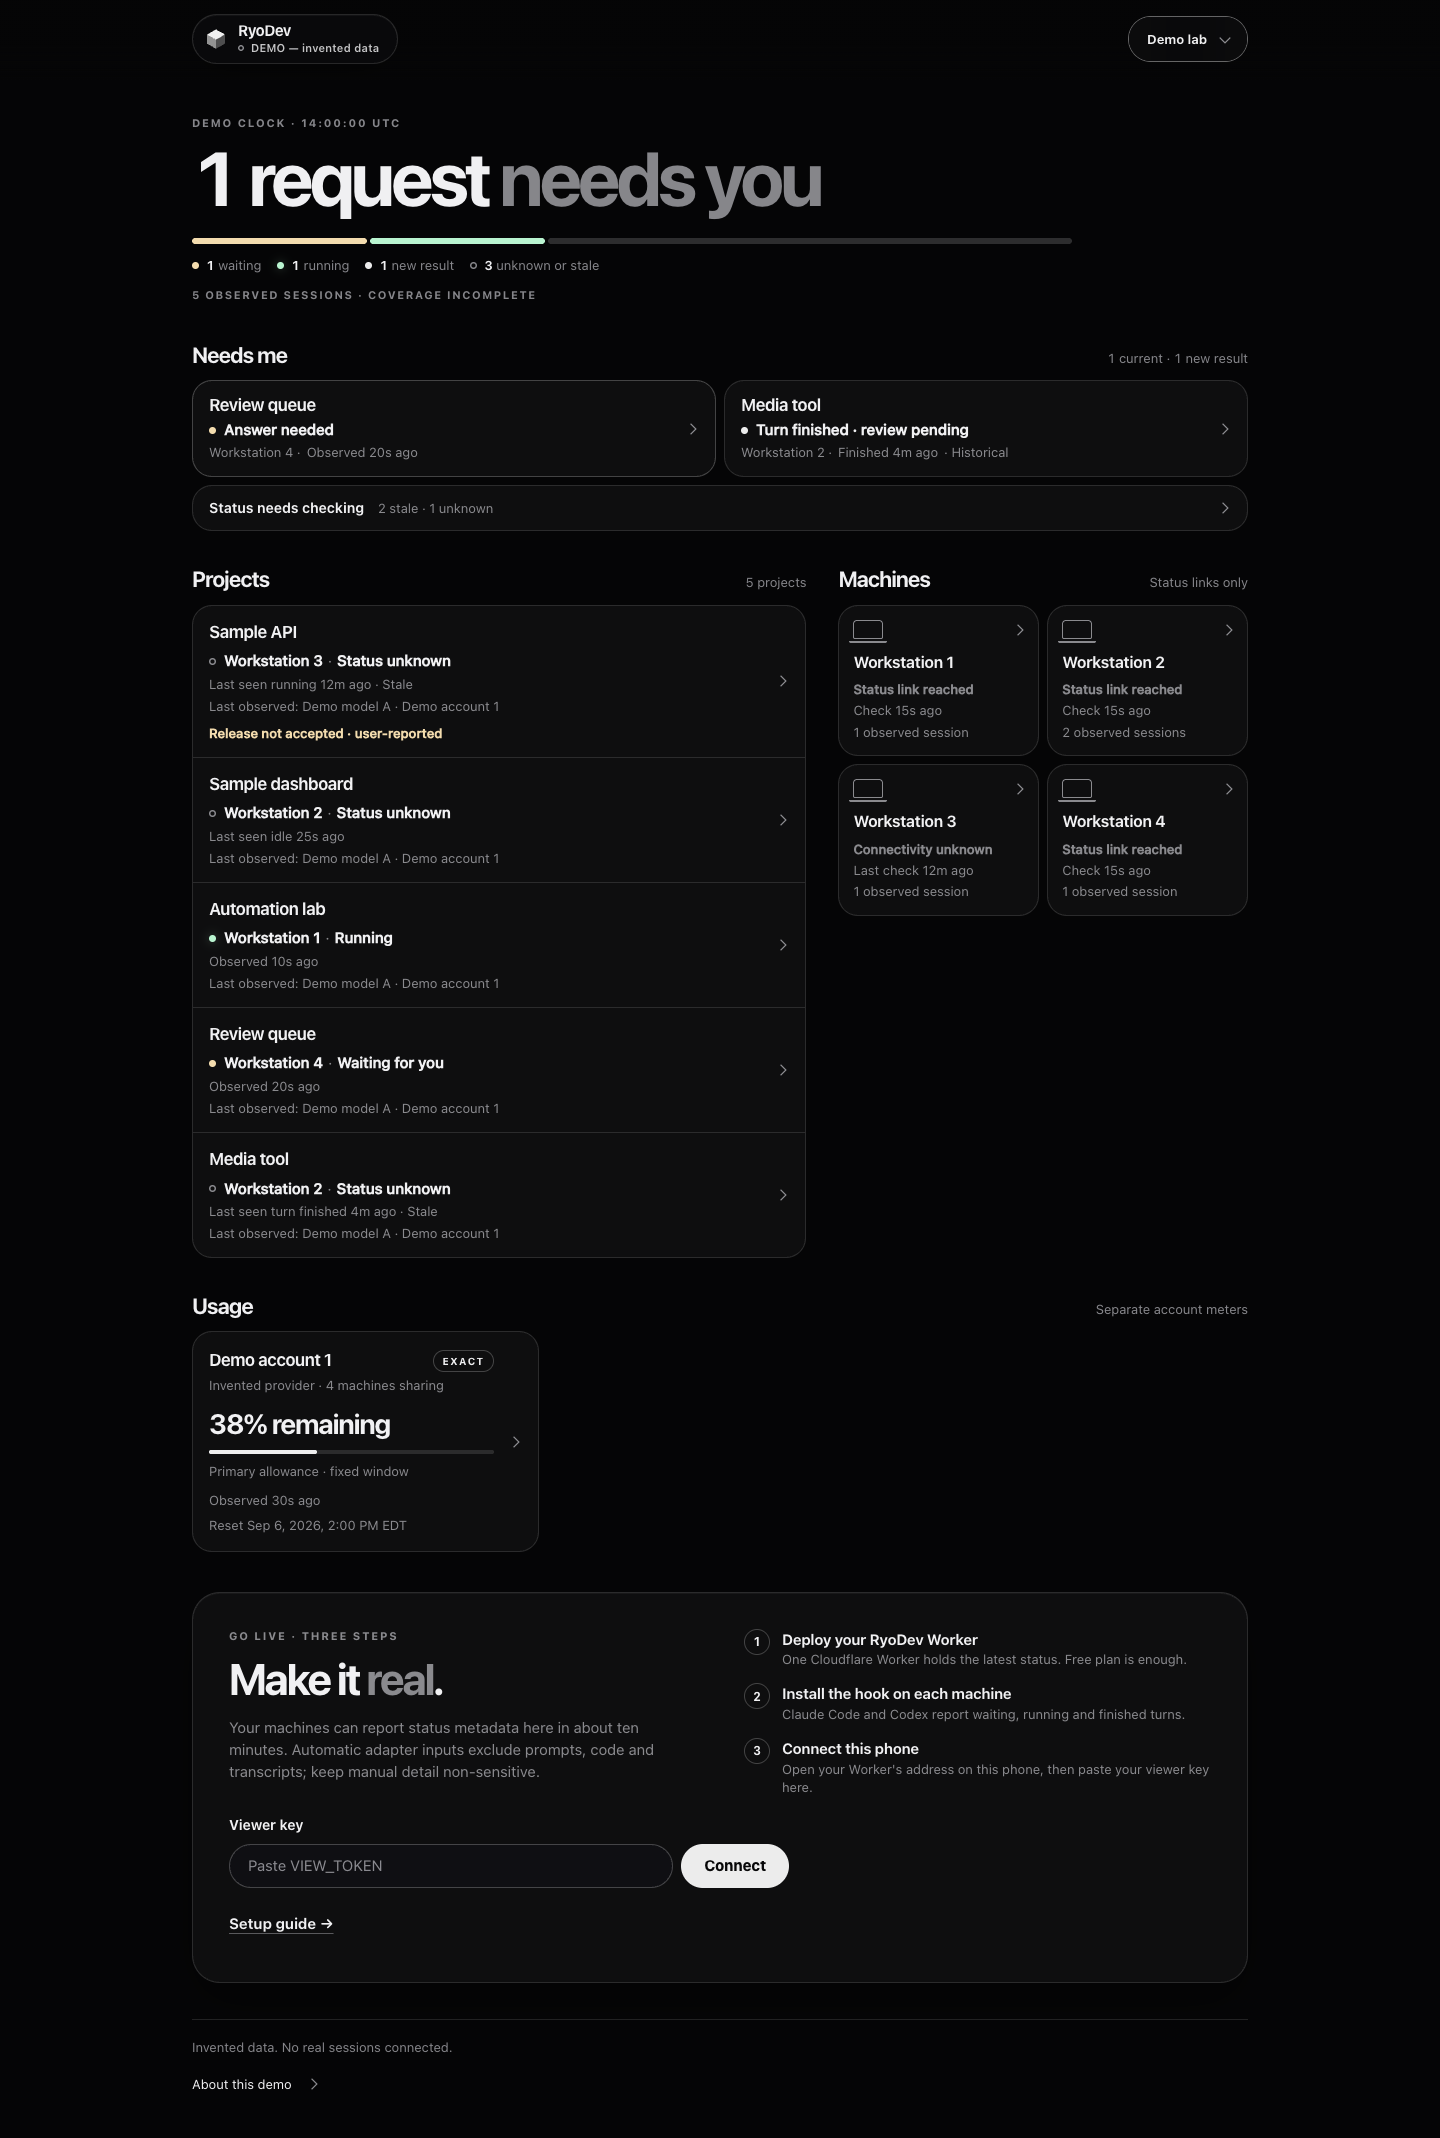
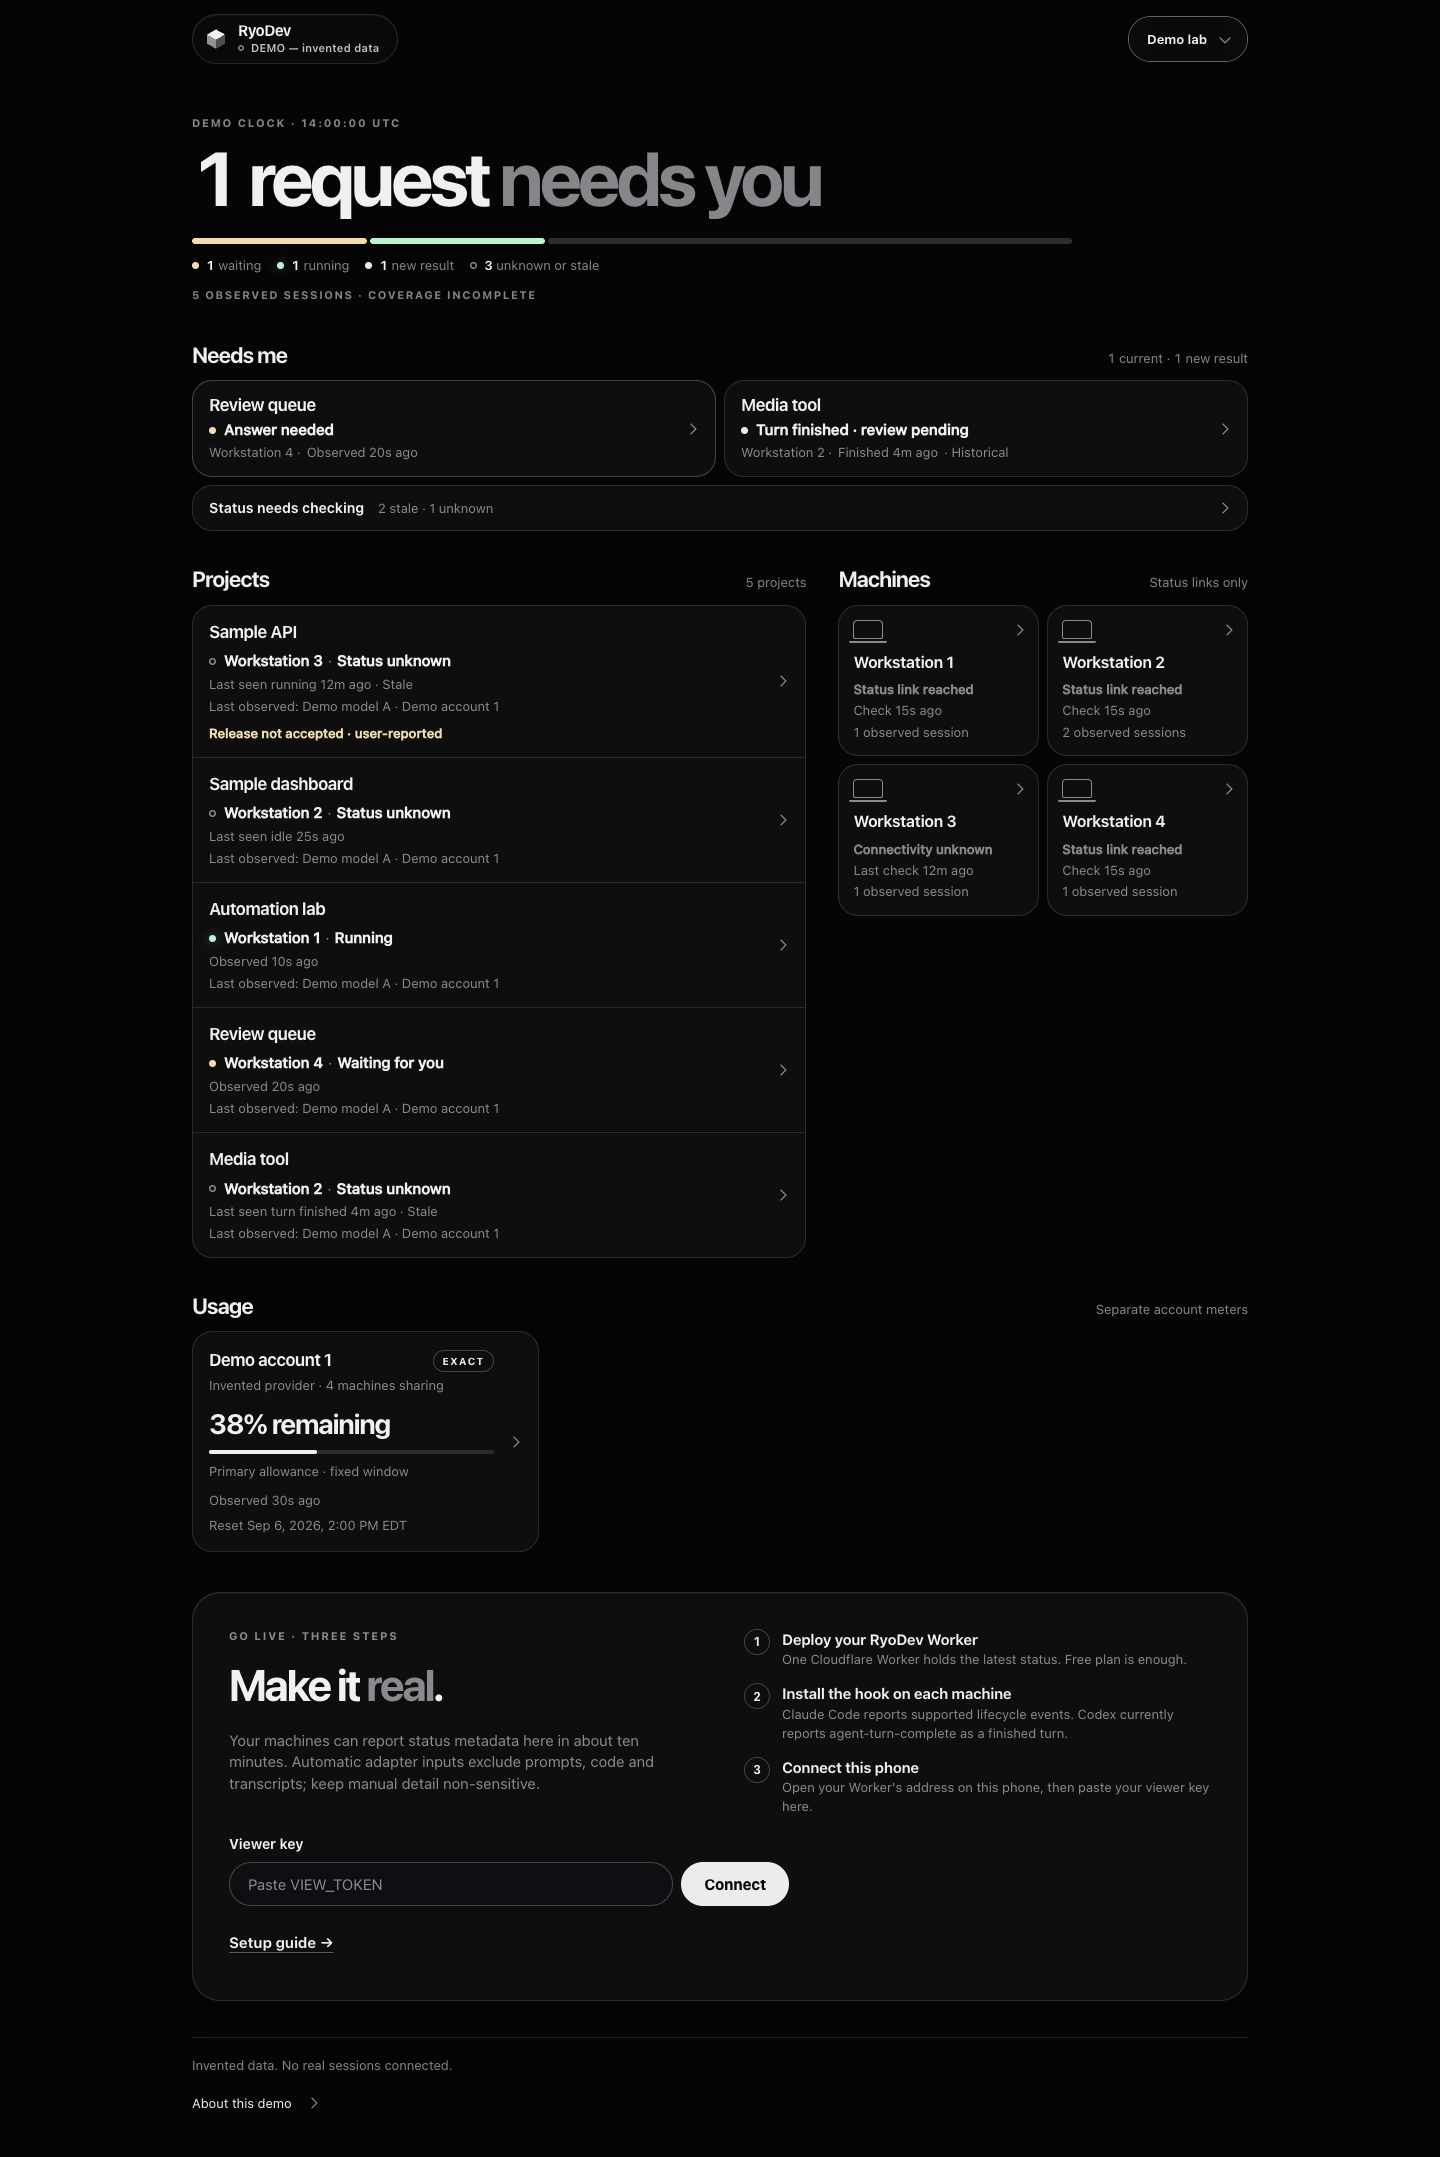
Clarify Codex hook capability

diff --git a/index.html b/index.html
@@ -86,7 +86,7 @@
         <p class="golive-lead" id="golive-lead">Your machines can report status metadata here in about ten minutes. Automatic adapter inputs exclude prompts, code and transcripts; keep manual detail non-sensitive.</p>
         <ol class="steps">
           <li><span class="step-num" aria-hidden="true">1</span><span><strong>Deploy your RyoDev Worker</strong><span class="row-meta">One Cloudflare Worker holds the latest status. Free plan is enough.</span></span></li>
-          <li><span class="step-num" aria-hidden="true">2</span><span><strong>Install the hook on each machine</strong><span class="row-meta">Claude Code and Codex report waiting, running and finished turns.</span></span></li>
+          <li><span class="step-num" aria-hidden="true">2</span><span><strong>Install the hook on each machine</strong><span class="row-meta">Claude Code reports supported lifecycle events. Codex currently reports agent-turn-complete as a finished turn.</span></span></li>
           <li><span class="step-num" aria-hidden="true">3</span><span><strong>Connect this phone</strong><span class="row-meta" id="connect-hint">Open your Worker's address on this phone, then paste your viewer key here.</span></span></li>
         </ol>
         <div class="connect" id="connect-form">
